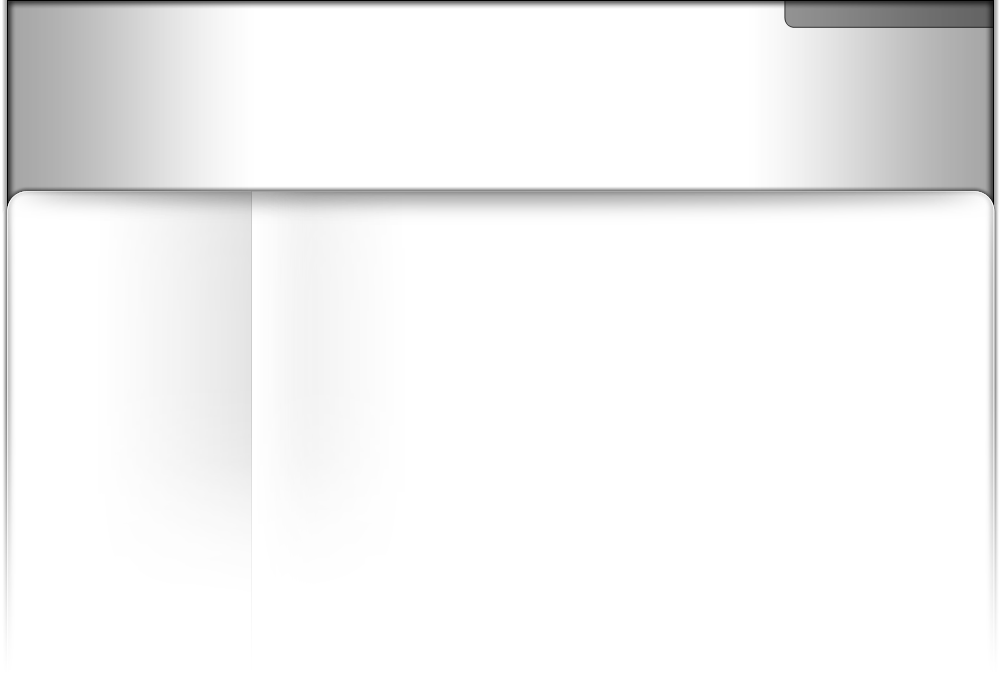
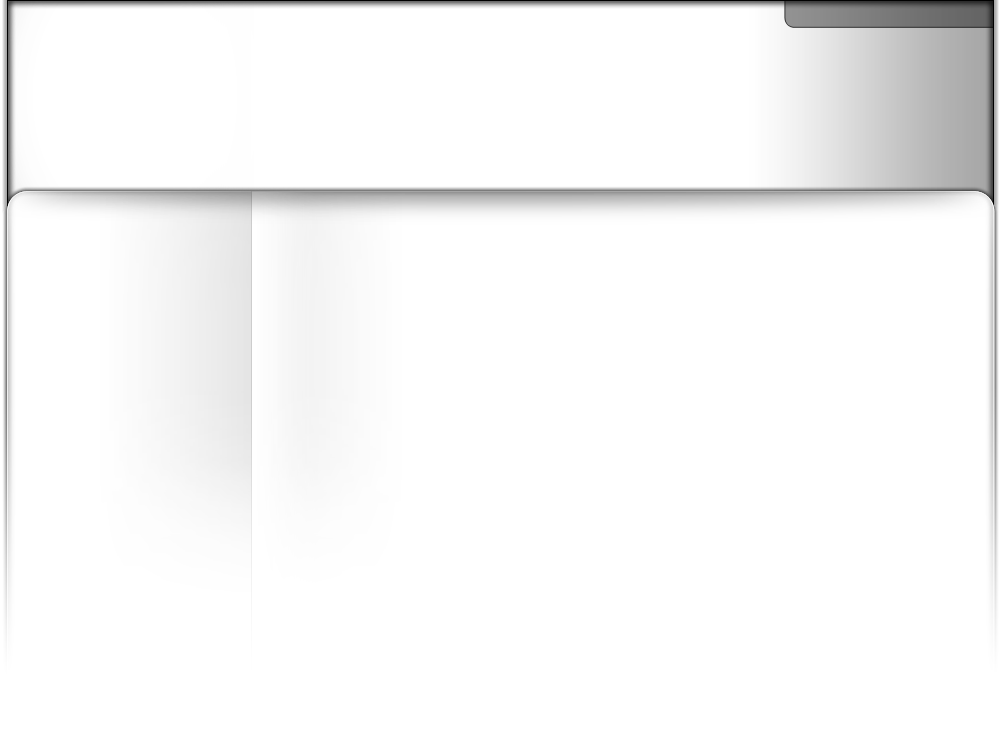
1e essai

Changed region(s): [[0.0, 0.0, 1.0, 0.3], [0.806, 0.03, 0.992, 0.06]]

diff --git a/web/css/frontend.css b/web/css/frontend.css
@@ -271,16 +271,35 @@ div#login input#login-button:hover {
 	cursor: pointer;
 }
 
-div#header-logo {
+div#header-logo a#logo_link {
+        display: block;
 	position: absolute;
-	left: 20px;
+	left: 30px;
 	top: 0px;
-	width: 319px;
+        padding: 10px;
 	z-index: 1000;
+
+        background-image: url("../images/logo-background.png");
+        /*background-color: #fff;*/
+	/* -> border */
+        -moz-border-radius: 10px;
+        -webkit-border-radius: 10px;
+        -khtml-border-radius: 10px;
+        border-radius: 10px;
+        behavior: url("../script/border-radius.htc");
+	/* <- border */
 }
 
 div#header-logo img {
-	margin: 0px 0 0 0px;
+	margin: 0;
+}
+
+div#header-logo #slogan_link {
+	margin-left: 23px;
+        color: #8fbc13;
+        font-weight: bold;
+        font-style: italic;
+        font-size: 110%;
 }
 
 /* Header:Counter text */
@@ -396,6 +415,10 @@ ul#menu li ul {
 ul#menu li a:hover, ul#menu li span:hover {
 	background-color: #ffffbe;
 	color: #000;
+}
+
+ul#menu li a, ul#menu li span {
+	padding-left: 10px;
 }
 
 ul#menu > li ul > li a {
@@ -567,32 +590,37 @@ form.module-form tfoot a:hover {
 	text-decoration: underline;
 }
 
-/* Page title*/
+/* Page title */
 div#content h1,
-div#content h2 {
-	border-bottom: 3px solid #FF6600;
+div#content h2,
+div#content h3 {
 	display: inline-block;
-	font-size: 24px;
 	font-weight: bold;
-	margin: 0 15px;
+        font-family: "Trebuchet MS";
+        color: #5f3812;
+}
+
+div#content h1 {
+        height: 50px;
+        background: url("../images/img-h1.png") no-repeat 0 0;
+	font-size: 24px;
 	margin-bottom: 15px;
+        padding: 1px 0 0 27px;
+}
+div#content h2 {
+	font-size: 20px;
+	margin-bottom: 10px;
 }
 div#content h3 {
-	border-bottom: 3px solid #FF6600;
-	display: inline-block;
 	font-size: 16px;
-	font-weight: bold;
+	margin-bottom: 5px;
 }
 
 
-div#content > p {
+div#content {
 	font-family: Arial, Helvetica, sans-serif;
 	font-size: 12px;
-	margin: 0 10px;
-}
-
-ul#menu li{
-	padding-left:20px;
+        padding: 10px;
 }
 
 blockquote {
@@ -600,7 +628,7 @@ blockquote {
 	padding:3px;
 	color:#575757;
 	padding: 0 40px;
-	background: url("/images/quote-left.png") no-repeat 0 0;
+	background: url("../images/quote-left.png") no-repeat 0 0;
 	min-height:60px;
 	max-width:350px;
 	font-style: italic;
@@ -612,14 +640,6 @@ blockquote p.author{
 	float:right;
 	color:#484848;
 	font-style: normal;
-}
-
-
-#logo_link {
-    color: #8fbc13;
-    font-weight: bold;
-    font-style: italic;
-    font-size: 110%;
 }
 
 .partner_col1{

diff --git a/apps/frontend/templates/layout.php b/apps/frontend/templates/layout.php
@@ -65,7 +65,7 @@
                 <div id="header-logo">
                     <a href="<?php echo url_for('@homepage') ?>" id="logo_link">
                         <img src="/images/header-logo.png" /><br/>
-                        <?php echo __('Compensons notre empreinte écologique !'); ?>
+                        <span id="slogan_link"><?php echo __('Compensons notre empreinte écologique !'); ?></span>
                     </a>
                 </div>
                 <div id="counter-text"><?php echo __('Nous avons déjà planté') ?></div>
@@ -141,10 +141,6 @@ addthis:description="An Example Description"
 <div class="addthis_toolbox addthis_default_style">
         <a class="addthis_button_facebook" title="<?php echo __('Partager sur Facebook') ?>"></a>
         <a class="addthis_button_twitter" title="<?php echo __('Partager sur Twitter') ?>"></a>
-        <a class="addthis_button_googlebuzz" title="<?php echo __('Partager sur Google Buzz') ?>"></a>
-        <a class="addthis_button_myspace" title="<?php echo __('Partager sur MySpace') ?>"></a>
-        <a class="addthis_button_email" title="<?php echo __('Envoyer par mail') ?>"></a>
-        <a class="addthis_button_favorites" title="<?php echo __('Ajouter aux favoris') ?>"></a>
         <a class="addthis_button_www.signaler.com" title="<?php echo __('Signaler') ?>"></a>
         <span class="addthis_separator">|</span>
         <a href="http://www.addthis.com/bookmark.php?v=250&amp;pubid=ra-4d92ffa329add9af" class="addthis_button_compact"> <?php echo __('Partager') ?></a>
